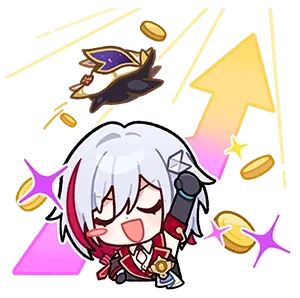
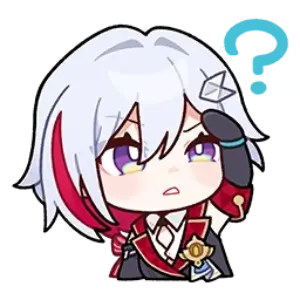
Added new Topaz topaz_stickers
Added a new Topaz sticker, altering the code to accomodate for the added sticker.

diff --git a/index.html b/index.html
@@ -40,7 +40,7 @@
                         </div>
                     </div>
                     <div class="topaz">
-                        <img id="topaz" src="static/images/topaz_stickers/topaz4.webp">
+                        <img id="topaz" src="static/images/topaz_stickers/topaz5.webp">
                     </div>
                     <button id="clicker" onclick="creditCounter()">Tax!</button>
                 </div>

diff --git a/static/js/script.js b/static/js/script.js
@@ -31,7 +31,7 @@ function playSound() {
 function animateTopaz () {
 	var clicker = document.getElementById("clicker");
     var id = null;
-	var random = Math.floor(Math.random() * 3) + 1;
+	var random = Math.floor(Math.random() * 4) + 1;
     var elem = document.createElement("img");
     elem.src = `static/images/topaz_stickers/topaz${random}.webp`;
     elem.style.position = "absolute";

diff --git a/static/css/style.css b/static/css/style.css
@@ -45,7 +45,7 @@ a {
     top: 10px;
 }
 .main {
-    animation: fadeIn 1s ease;
+    animation: fadeIn 0.5s ease;
 }
 .build {
     opacity: 0;
